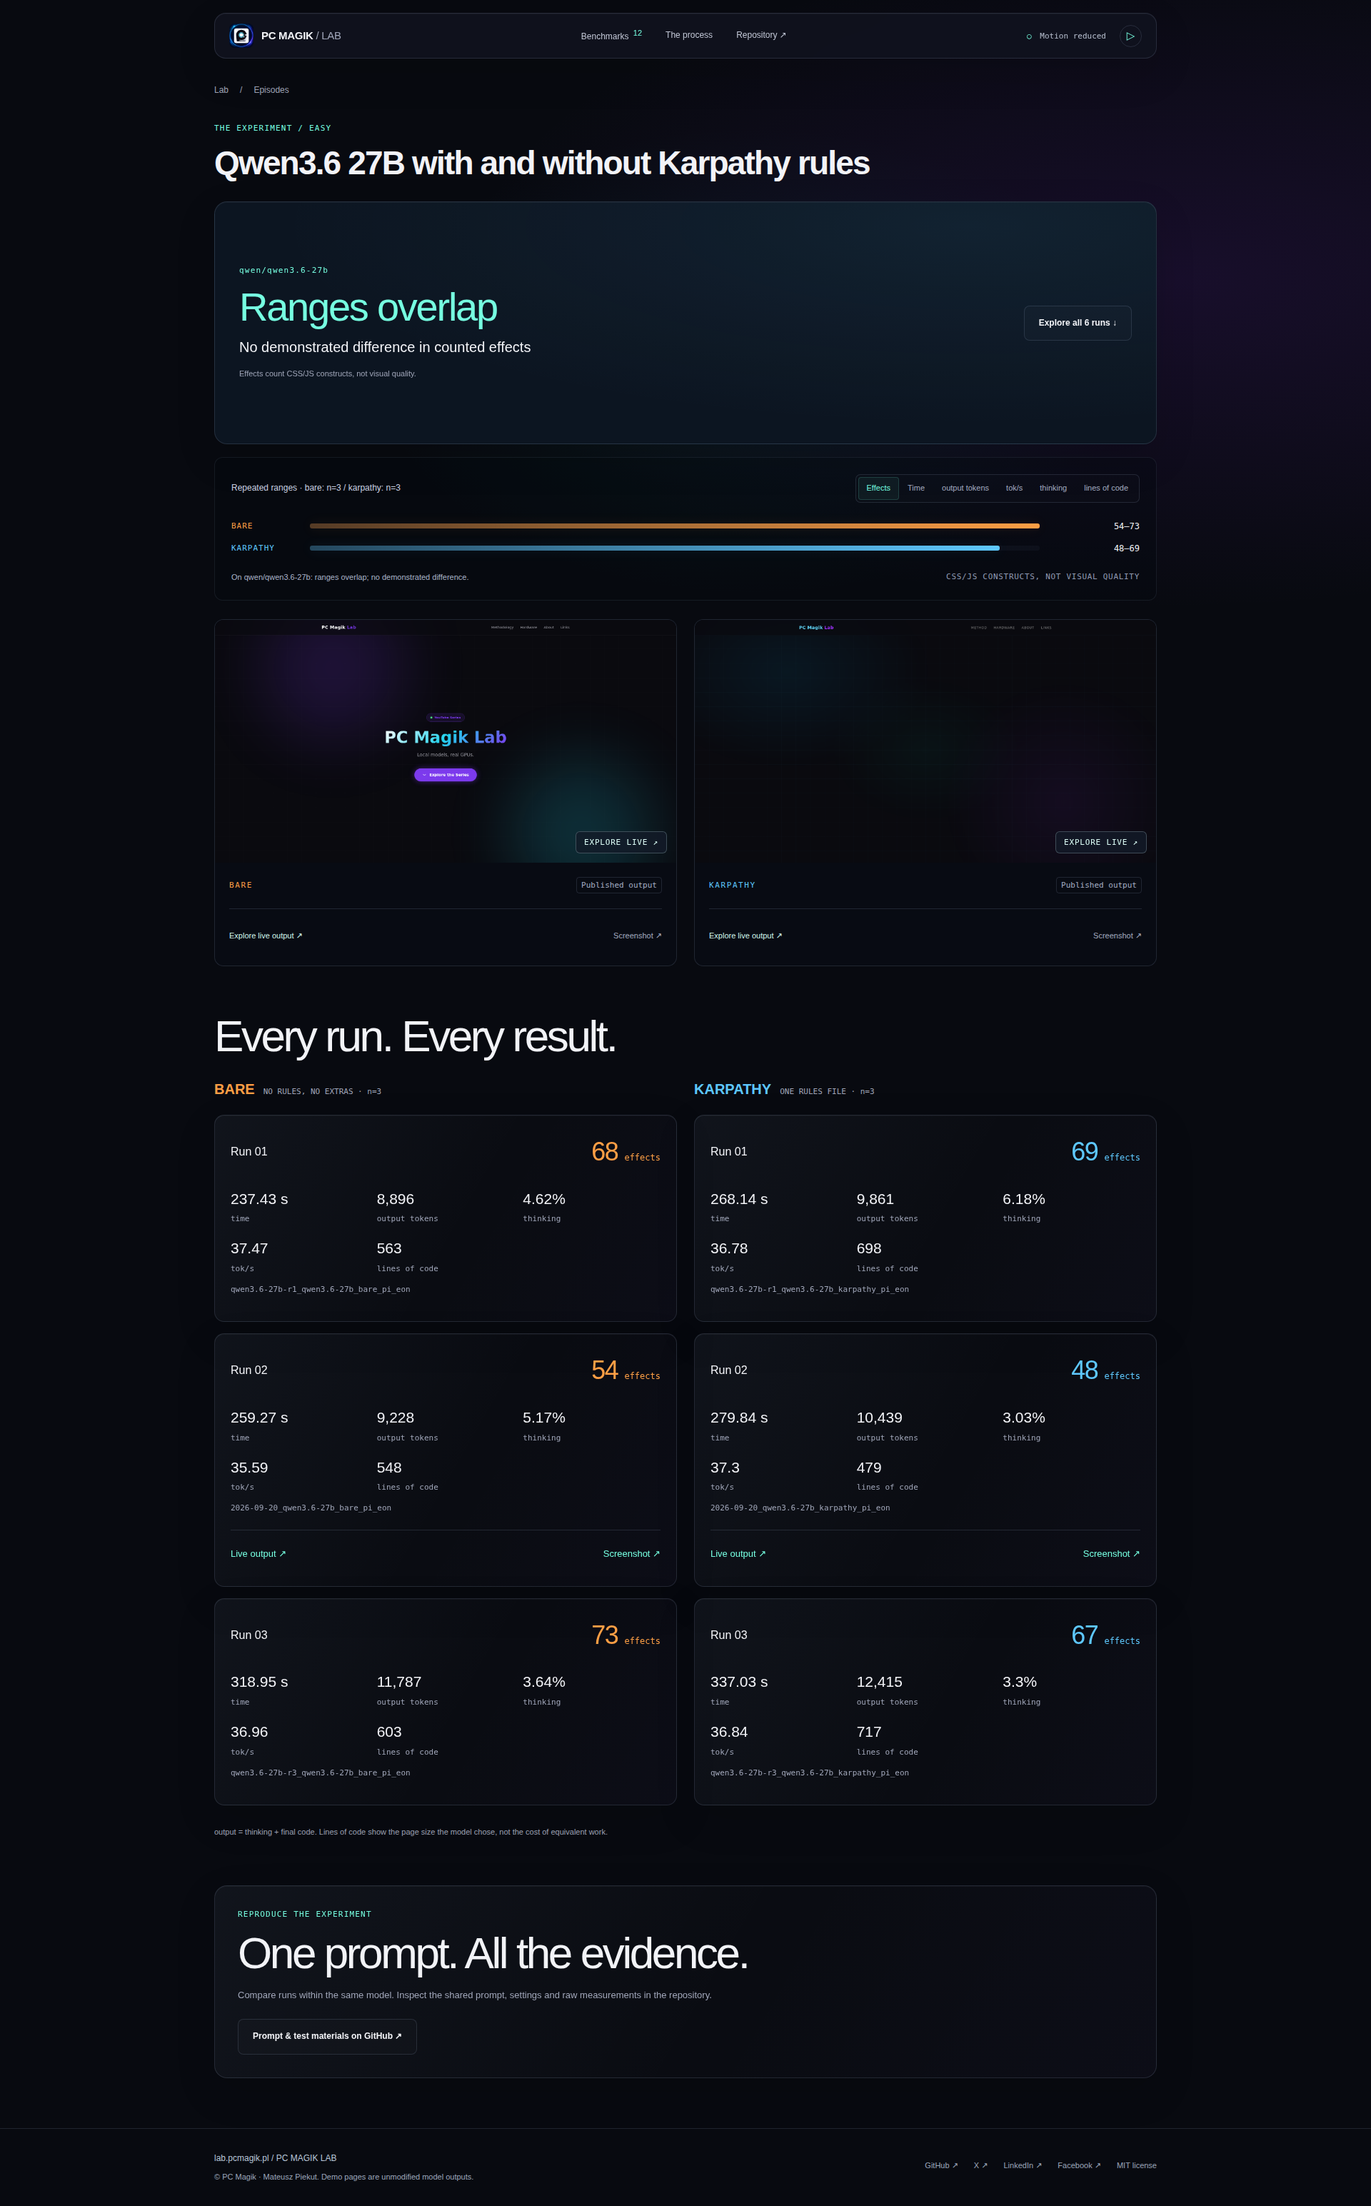
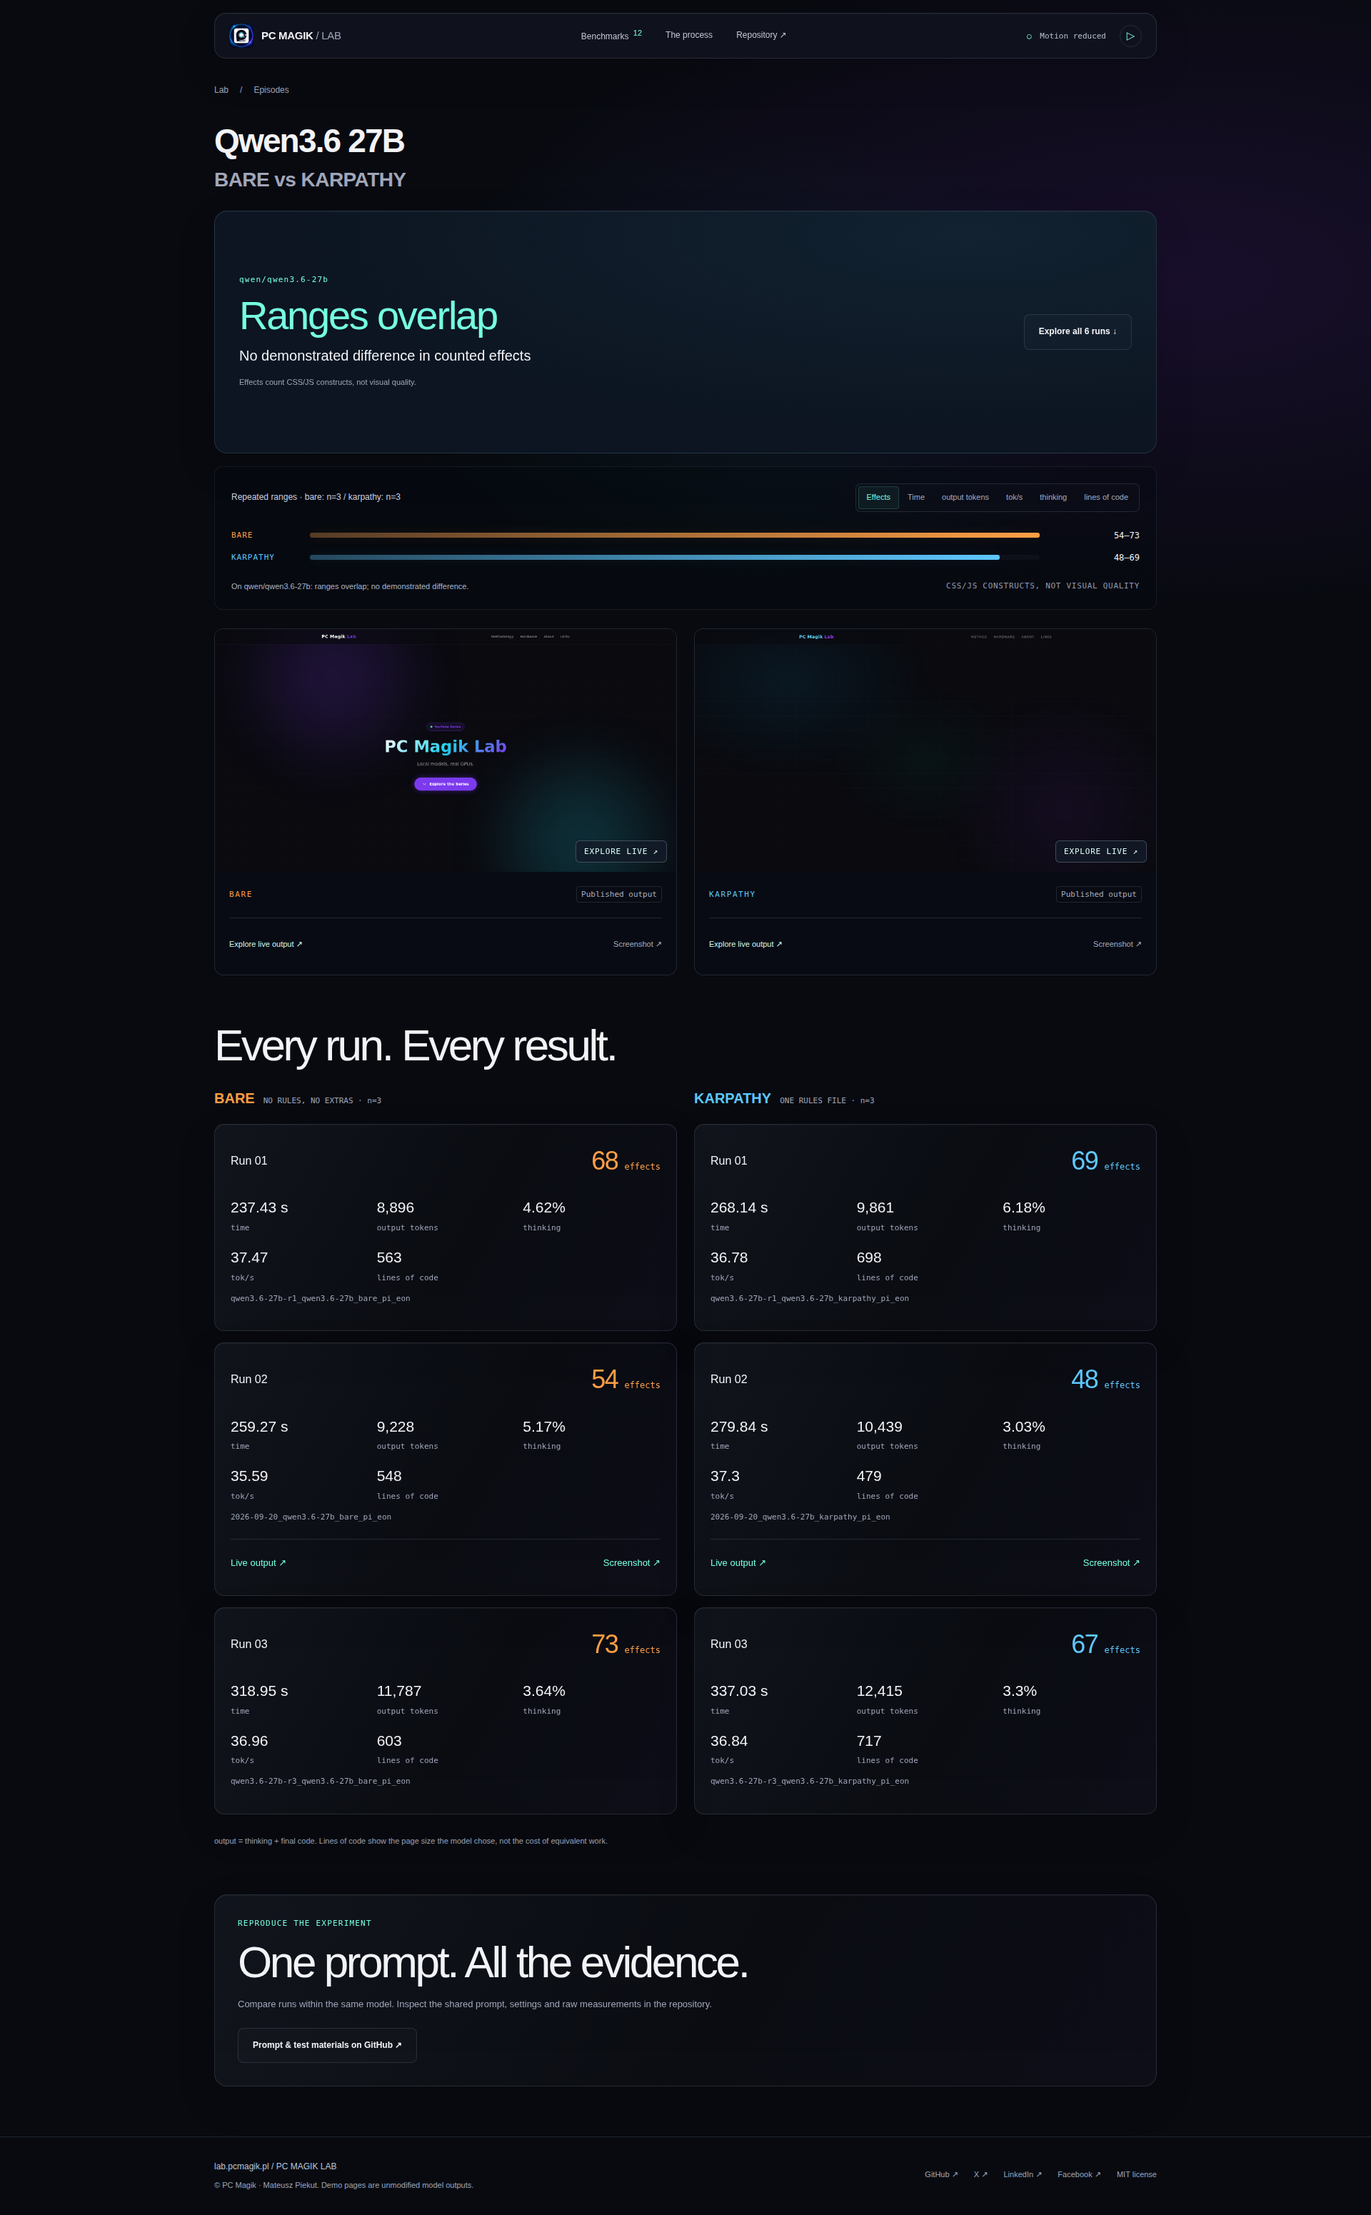
fix: normalize episode headings to model and comparison

diff --git a/episodes/01-karpathy-vs-bare/index.html b/episodes/01-karpathy-vs-bare/index.html
@@ -37,7 +37,7 @@
 <!-- Generated from data/episodes.json; edit bin/templates instead. -->
 <main id="main" class="wrap content-wrap interior">
 <nav class="breadcrumbs" aria-label="Breadcrumb"><a href="/">Lab</a><span>/</span><a href="/episodes/">Episodes</a></nav>
-<section class="episode-intro"><p class="eyebrow">THE EXPERIMENT / EASY</p><h1 class="page-title">Karpathy skills on <span class="title-phrase">Qwen3.8 27B:</span><br><span class="title-phrase">what you gain</span>, <span class="title-phrase">what you lose</span></h1></section>
+<section class="episode-intro"><h1 class="page-title"><span class="episode-model">Qwen3.8 27B</span><span class="episode-question">BARE vs KARPATHY</span></h1></section>
 <section class="episode-results" aria-label="qwen/qwen3.8-27b results"><div class="result-hero glass"><div><p class="eyebrow">qwen/qwen3.8-27b</p><strong class="result-number">−22%</strong><span>fewer counted effects</span><p class="result-repeat">5 / 5 Karpathy runs below every bare run · mean reduction</p><p class="measurement-note">Effects count CSS/JS constructs, not visual quality.</p></div><a class="button" href="#runs-0">Explore all 10 runs ↓</a></div>
 <div class="comparison" data-comparison><div class="compare-top"><h4>Repeated ranges · bare: n=5 / karpathy: n=5</h4><div class="metric-switch" role="group" aria-label="Compare a metric" hidden><button type="button" data-metric="effects" aria-controls="comparison-0-effects" aria-pressed="true">Effects</button><button type="button" data-metric="time" aria-controls="comparison-0-time" aria-pressed="false">Time</button><button type="button" data-metric="tokens" aria-controls="comparison-0-tokens" aria-pressed="false">output tokens</button><button type="button" data-metric="throughput" aria-controls="comparison-0-throughput" aria-pressed="false">tok/s</button><button type="button" data-metric="thinking" aria-controls="comparison-0-thinking" aria-pressed="false">thinking</button><button type="button" data-metric="lines" aria-controls="comparison-0-lines" aria-pressed="false">lines of code</button></div></div><div aria-live="polite" aria-atomic="true"><div data-metric-panel="effects" id="comparison-0-effects"><div class="compare-rows"><div class="compare-row"><span class="compare-label">BARE</span><div class="bar-track" aria-hidden="true"><div class="bar-fill bare-bar" style="width:100.0000%"></div></div><strong class="compare-value">129–155</strong></div><div class="compare-row"><span class="compare-label">KARPATHY</span><div class="bar-track" aria-hidden="true"><div class="bar-fill karpathy-bar" style="width:78.0645%"></div></div><strong class="compare-value">101–121</strong></div></div><div class="compare-footer"><p class="compare-summary">On qwen/qwen3.8-27b: 22% fewer counted effects on average; every Karpathy run below every bare run.</p><span>CSS/JS CONSTRUCTS, NOT VISUAL QUALITY</span></div></div><div data-metric-panel="time" id="comparison-0-time" hidden><div class="compare-rows"><div class="compare-row"><span class="compare-label">BARE</span><div class="bar-track" aria-hidden="true"><div class="bar-fill bare-bar" style="width:87.7238%"></div></div><strong class="compare-value">5:38–7:00 min:s</strong></div><div class="compare-row"><span class="compare-label">KARPATHY</span><div class="bar-track" aria-hidden="true"><div class="bar-fill karpathy-bar" style="width:100.0000%"></div></div><strong class="compare-value">4:08–7:59 min:s</strong></div></div><div class="compare-footer"><p class="compare-summary">On qwen/qwen3.8-27b: ranges overlap; no demonstrated difference.</p><span>OPEN-ENDED TASK / NOT EQUIVALENT-WORK COST</span></div></div><div data-metric-panel="tokens" id="comparison-0-tokens" hidden><div class="compare-rows"><div class="compare-row"><span class="compare-label">BARE</span><div class="bar-track" aria-hidden="true"><div class="bar-fill bare-bar" style="width:90.8563%"></div></div><strong class="compare-value">18,858–22,049</strong></div><div class="compare-row"><span class="compare-label">KARPATHY</span><div class="bar-track" aria-hidden="true"><div class="bar-fill karpathy-bar" style="width:100.0000%"></div></div><strong class="compare-value">14,333–24,268</strong></div></div><div class="compare-footer"><p class="compare-summary">On qwen/qwen3.8-27b: ranges overlap; no demonstrated difference.</p><span>OPEN-ENDED TASK / NOT EQUIVALENT-WORK COST</span></div></div><div data-metric-panel="throughput" id="comparison-0-throughput" hidden><div class="compare-rows"><div class="compare-row"><span class="compare-label">BARE</span><div class="bar-track" aria-hidden="true"><div class="bar-fill bare-bar" style="width:97.3375%"></div></div><strong class="compare-value">52.50–56.30 tok/s</strong></div><div class="compare-row"><span class="compare-label">KARPATHY</span><div class="bar-track" aria-hidden="true"><div class="bar-fill karpathy-bar" style="width:100.0000%"></div></div><strong class="compare-value">50.69–57.84 tok/s</strong></div></div><div class="compare-footer"><p class="compare-summary">On qwen/qwen3.8-27b: ranges overlap; no demonstrated difference.</p><span>OPEN-ENDED TASK / NOT EQUIVALENT-WORK COST</span></div></div><div data-metric-panel="thinking" id="comparison-0-thinking" hidden><div class="compare-rows"><div class="compare-row"><span class="compare-label">BARE</span><div class="bar-track" aria-hidden="true"><div class="bar-fill bare-bar" style="width:51.3369%"></div></div><strong class="compare-value">1.55–5.76%</strong></div><div class="compare-row"><span class="compare-label">KARPATHY</span><div class="bar-track" aria-hidden="true"><div class="bar-fill karpathy-bar" style="width:100.0000%"></div></div><strong class="compare-value">1.79–11.22%</strong></div></div><div class="compare-footer"><p class="compare-summary">On qwen/qwen3.8-27b: ranges overlap; no demonstrated difference.</p><span>output = thinking + final code</span></div></div><div data-metric-panel="lines" id="comparison-0-lines" hidden><div class="compare-rows"><div class="compare-row"><span class="compare-label">BARE</span><div class="bar-track" aria-hidden="true"><div class="bar-fill bare-bar" style="width:100.0000%"></div></div><strong class="compare-value">978–1,122</strong></div><div class="compare-row"><span class="compare-label">KARPATHY</span><div class="bar-track" aria-hidden="true"><div class="bar-fill karpathy-bar" style="width:100.0000%"></div></div><strong class="compare-value">902–1,122</strong></div></div><div class="compare-footer"><p class="compare-summary">On qwen/qwen3.8-27b: ranges overlap; no demonstrated difference.</p><span>PAGE SIZE CHOSEN BY THE MODEL, NOT COST</span></div></div></div></div>
 <div class="output-previews runs">

diff --git a/bin/check_shared_layout.js b/bin/check_shared_layout.js
@@ -43,17 +43,15 @@ async page => {
         if(overflow)failures.push('Card overflow '+route);
         if(card.y+card.height>(width===390?844:1080))failures.push('Card below first screen '+route);
       }
-      if(route.includes('01-karpathy')) {
-        if(await page.locator('h1').evaluate(e=>e.scrollWidth>e.clientWidth)) failures.push('Title overflow '+width);
-        const title=page.locator('h1');
-        if(await title.locator('br').count()!==1)failures.push('Missing explicit title break');
-        // The final two words must stay on the same rendered line.
-        const lines=await title.evaluate(e=>{
-          const walker=document.createTreeWalker(e,NodeFilter.SHOW_TEXT),rects=[]; let n;
-          while(n=walker.nextNode())for(const m of n.textContent.matchAll(/\S+/g)){const r=document.createRange();r.setStart(n,m.index);r.setEnd(n,m.index+m[0].length);rects.push({word:m[0],y:r.getBoundingClientRect().y});}
-          return rects.slice(-2);
-        });
-        if(lines.length!==2||Math.abs(lines[0].y-lines[1].y)>1)failures.push('Orphan title ending '+width);
+      if(route.includes('/episodes/0')) {
+        const heading=page.locator('h1');
+        if(await heading.evaluate(e=>e.scrollWidth>e.clientWidth))failures.push('Title overflow '+width);
+        const model=await heading.locator('.episode-model').boundingBox();
+        const question=await heading.locator('.episode-question').boundingBox();
+        if(question.y<model.y+model.height)failures.push('Heading rows overlap');
+        if(await heading.locator('.episode-question').innerText()!=='BARE vs KARPATHY')failures.push('Inconsistent comparison title');
+        const expected=route.includes('01-karpathy')?'Qwen3.8 27B':'Qwen3.6 27B';
+        if(await heading.locator('.episode-model').innerText()!==expected)failures.push('Model title mismatch');
       }
       const name=route==='/'?'home':route==='/episodes/'?'list':route.split('/')[2];
       await page.screenshot({path:'.screenshots/shared-layout-'+name+'-'+width+'.png',fullPage:true});

diff --git a/assets/interior.css b/assets/interior.css
@@ -108,7 +108,8 @@ thead { background: #ffffff06; }thead th { font-size: var(--minimum-text); font-
 
 /* Fixed result panels keep episode summaries aligned without clipping content. */
 .result-hero { height: 340px; }
-.title-phrase { display: inline-block; }
+.episode-intro .episode-model { display: block; color: inherit; }
+.episode-intro .episode-question { display: block; font-size: clamp(20px, 2vw, 28px); letter-spacing: -.02em; margin-top: 12px; }
 @media (max-width: 600px) {
   .result-hero { height: 390px; justify-content: space-between; }
 }

diff --git a/bin/test_publication.py b/bin/test_publication.py
@@ -127,7 +127,8 @@ class PublicationTest(unittest.TestCase):
         result = self.publish()
         self.assertEqual(result.returncode, 0, result.stderr)
         html = (self.root/'episodes/results/index.html').read_text()
-        self.assertIn('<h1 class="page-title">Measured question</h1>', html)
+        self.assertIn('<span class="episode-question">BARE vs KARPATHY</span>', html)
+        self.assertIn('<span class="episode-model">test/model</span>', html)
         self.assertIn('23%', html)
         self.assertIn('3 / 3', html)
         self.assertNotIn('material-details', html)
@@ -170,8 +171,24 @@ class PublicationTest(unittest.TestCase):
             self.assertIn('src="/assets/lab.js"', page)
             self.assertIn('href="/assets/lab.css"', page)
         episode = (self.root/'episodes/shared/index.html').read_text()
-        self.assertIn('Measured question:<br>', episode)
-        self.assertIn('<span class="title-phrase">what you lose</span>', episode)
+        self.assertIn('<span class="episode-model">test/model</span>', episode)
+        self.assertIn('<span class="episode-question">Measured question: what you gain, what you lose</span>', episode)
+
+    def test_legacy_episode_titles_share_model_comparison_heading(self):
+        for title, model in [('Karpathy skills on Qwen3.8 27B: what you gain, what you lose', 'Qwen3.8 27B'), ('Qwen3.6 27B with and without Karpathy rules', 'Qwen3.6 27B')]:
+            ep = self.episode('normalized', 19)
+            ep['title'] = title + ' | PC Magik Lab'
+            other = self.episode('normalized', 20)['runs'][0]
+            other['wariant'] = 'karpathy'
+            self.evidence(other)
+            ep['measurements'].append(other)
+            self.feed['episodes'] = [ep]
+            self.assertEqual(self.publish().returncode, 0)
+            page = (self.root/'episodes/normalized/index.html').read_text()
+            heading = re.search(r'<h1.*?</h1>', page)[0]
+            self.assertIn(f'<span class="episode-model">{model}</span>', heading)
+            self.assertIn('<span class="episode-question">BARE vs KARPATHY</span>', heading)
+            self.assertNotIn('what you', heading)
 
     def generated(self):
         return {str(p.relative_to(self.root)):p.read_bytes() for p in self.root.rglob('*')

diff --git a/bin/build_site.py b/bin/build_site.py
@@ -192,17 +192,18 @@ def episode_result(runs):
     return '<strong class="result-number result-words">Ranges overlap</strong><span>No demonstrated difference in counted effects</span>'
 
 
-def episode_heading(title):
-    """Break at the title's clause boundary; keep short closing phrases together."""
-    if ': ' not in title:
-        return text(title)
-    subject, detail = title.split(': ', 1)
-    phrases = ', '.join(f'<span class="title-phrase">{text(part)}</span>' for part in detail.split(', '))
-    words = subject.split(' ')
-    subject_html = text(subject) + ':'
-    if len(words) > 2:
-        subject_html = text(' '.join(words[:-2])) + ' ' + f'<span class="title-phrase">{text(" ".join(words[-2:]))}:</span>'
-    return f'{subject_html}<br>{phrases}'
+def episode_heading(ep):
+    """Present model and comparison consistently, using only published metadata."""
+    title = ep['title'].removesuffix(' | PC Magik Lab')
+    models = list(dict.fromkeys(r['model'] for r in ep['measurements']))
+    variants = list(dict.fromkeys(r['wariant'] for r in ep['measurements']))
+    model = ' / '.join(models)
+    if len(models) == 1:
+        match = re.fullmatch(r'Karpathy skills on (.+?): .+|(.+) with and without Karpathy rules', title)
+        if match:
+            model = match[1] or match[2]
+    comparison = ' vs '.join(v.upper() for v in variants) if len(variants) > 1 else title
+    return f'<span class="episode-model">{text(model)}</span><span class="episode-question">{text(comparison)}</span>'
 
 
 def episode_body(ep, feed):
@@ -210,7 +211,7 @@ def episode_body(ep, feed):
     title = ep['title'].removesuffix(' | PC Magik Lab')
     repo = f'https://github.com/pcmagik/pcmagik-lab/tree/main/episodes/{slug}'
     body = [f'''<nav class="breadcrumbs" aria-label="Breadcrumb"><a href="/">Lab</a><span>/</span><a href="/episodes/">Episodes</a></nav>
-<section class="episode-intro"><p class="eyebrow">THE EXPERIMENT / {text(ep['task'].upper())}</p><h1 class="page-title">{episode_heading(title)}</h1></section>''']
+<section class="episode-intro"><h1 class="page-title">{episode_heading(ep)}</h1></section>''']
     grouped = defaultdict(list)
     for run in ep['measurements']:
         grouped[run['model']].append(run)

diff --git a/.claude/POPRAWKI-PODSTRONA-ODCINKA-2026-09-21.md b/.claude/POPRAWKI-PODSTRONA-ODCINKA-2026-09-21.md
@@ -84,3 +84,9 @@ Słowa operatora: „ta karta powinna być taka sama, jeśli chodzi o wielkość
 - `playwright-cli -s=publication --raw run-code --filename=bin/check_shared_layout.js` → **PASS**: główna, lista, odcinki 01/02 przy 1920 i 390. Porównanie obliczonych stylów wszystkich elementów navbaru i stopki oraz stylów body, kontrola wymiarów kart, linków menu, zasobów, menu mobilnego, przepełnienia i łamania tytułu. Dodatkowo pauza/wznowienie animacji na podstronach przy standardowych ustawieniach ruchu. Przed poprawką ten sam scenariusz odtworzył różne wysokości kart, navbar/stopkę i samotne słowo w tytule.
 - Zrzuty pełnostronicowe: `.screenshots/shared-layout-{home,list,01-karpathy-vs-bare,02-qwen3.6-27b}-{1920,390}.png` — osiem plików.
 - Podglądy 8765/8766 odświeżone. Bez merge, wdrożenia i edycji repo pomiarowego. Ograniczenia eksportera z poprzedniej rundy pozostają aktualne.
+
+### Ujednolicenie tytułów — dalsza uwaga operatora
+
+Na polecenie operatora zastąpiono długie nagłówki stałym układem: nazwa modelu w pierwszym wierszu, nazwy porównywanych wariantów w drugim (`BARE vs KARPATHY`). Usunięto dodatkowe hasła i etykietę nad tytułem. Zastępuje to poprzednie rozwiązanie z łamaniem długiego tytułu po dwukropku. Nazwy modeli są pobierane z istniejących tytułów feedu (dla dwóch dotychczasowych formatów); dla innych formatów używane są identyfikatory modeli z pomiarów. Nie zmieniono źródła, feedu ani strony głównej.
+
+Dowody: hook publikacji PASS; 16 testów Python OK; `check_shared_layout.js` PASS dla czterech stron przy 1920/390 px, z kontrolą dwóch wierszy nagłówka odcinków 01 i 02. Zaktualizowano cztery zrzuty `.screenshots/shared-layout-0*`. Podglądy 8765/8766 odświeżone.
